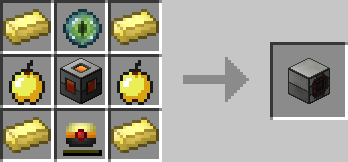
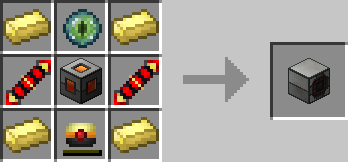
Un-derp the Charge Pad recipe

Changed region(s): [[0.3161, 0.3704, 0.4598, 0.6481], [0.0, 0.3704, 0.1437, 0.6481]]

diff --git a/src/main/java/io/endertech/EnderTech.java b/src/main/java/io/endertech/EnderTech.java
@@ -198,8 +198,8 @@ public class EnderTech
             GameRegistry.addRecipe(enderTankController, new Object[] {"IEI", "EFE", "ITI", 'I', enderiumIngot, 'F', machineResonant, 'T', tesseract, 'E', enderEyeStack});
             GameRegistry.addRecipe(enderTankGlass, new Object[] {"GIG", "EFE", "GIG", 'I', enderiumIngot, 'G', hardenedGlass, 'F', machineResonant, 'E', enderEyeStack});
 
-            GameRegistry.addRecipe(BlockChargePad.itemChargePadResonant, new Object[] {"IEI", "CFC", "IAI", 'I', enderiumIngot, 'F', machineResonant, 'E', enderEyeStack, 'C', goldenApple, 'T', tesseract, 'A', capacitorResonant});
-            GameRegistry.addRecipe(BlockChargePad.itemChargePadRedstone, new Object[] {"IEI", "CFC", "IAI", 'I', electrumIngot, 'F', machineRedstone, 'E', enderEyeStack, 'C', goldenApple, 'T', tesseract, 'A', capacitorReinforced});
+            GameRegistry.addRecipe(BlockChargePad.itemChargePadResonant, new Object[] {"IEI", "CFC", "IAI", 'I', enderiumIngot, 'F', machineResonant, 'E', enderEyeStack, 'C', powerCoilElectrumStack, 'T', tesseract, 'A', capacitorResonant});
+            GameRegistry.addRecipe(BlockChargePad.itemChargePadRedstone, new Object[] {"IEI", "CFC", "IAI", 'I', electrumIngot, 'F', machineRedstone, 'E', enderEyeStack, 'C', powerCoilElectrumStack, 'T', tesseract, 'A', capacitorReinforced});
 
             GameRegistry.addRecipe(BlockHealthPad.itemHealthPadResonant, new Object[] {"IEI", "CFC", "IAI", 'I', enderiumIngot, 'F', machineResonant, 'E', enderEyeStack, 'C', goldenApple, 'T', tesseract, 'A', capacitorResonant});
             GameRegistry.addRecipe(BlockHealthPad.itemHealthPadRedstone, new Object[] {"IEI", "CFC", "IAI", 'I', electrumIngot, 'F', machineRedstone, 'E', enderEyeStack, 'C', goldenApple, 'T', tesseract, 'A', capacitorReinforced});
